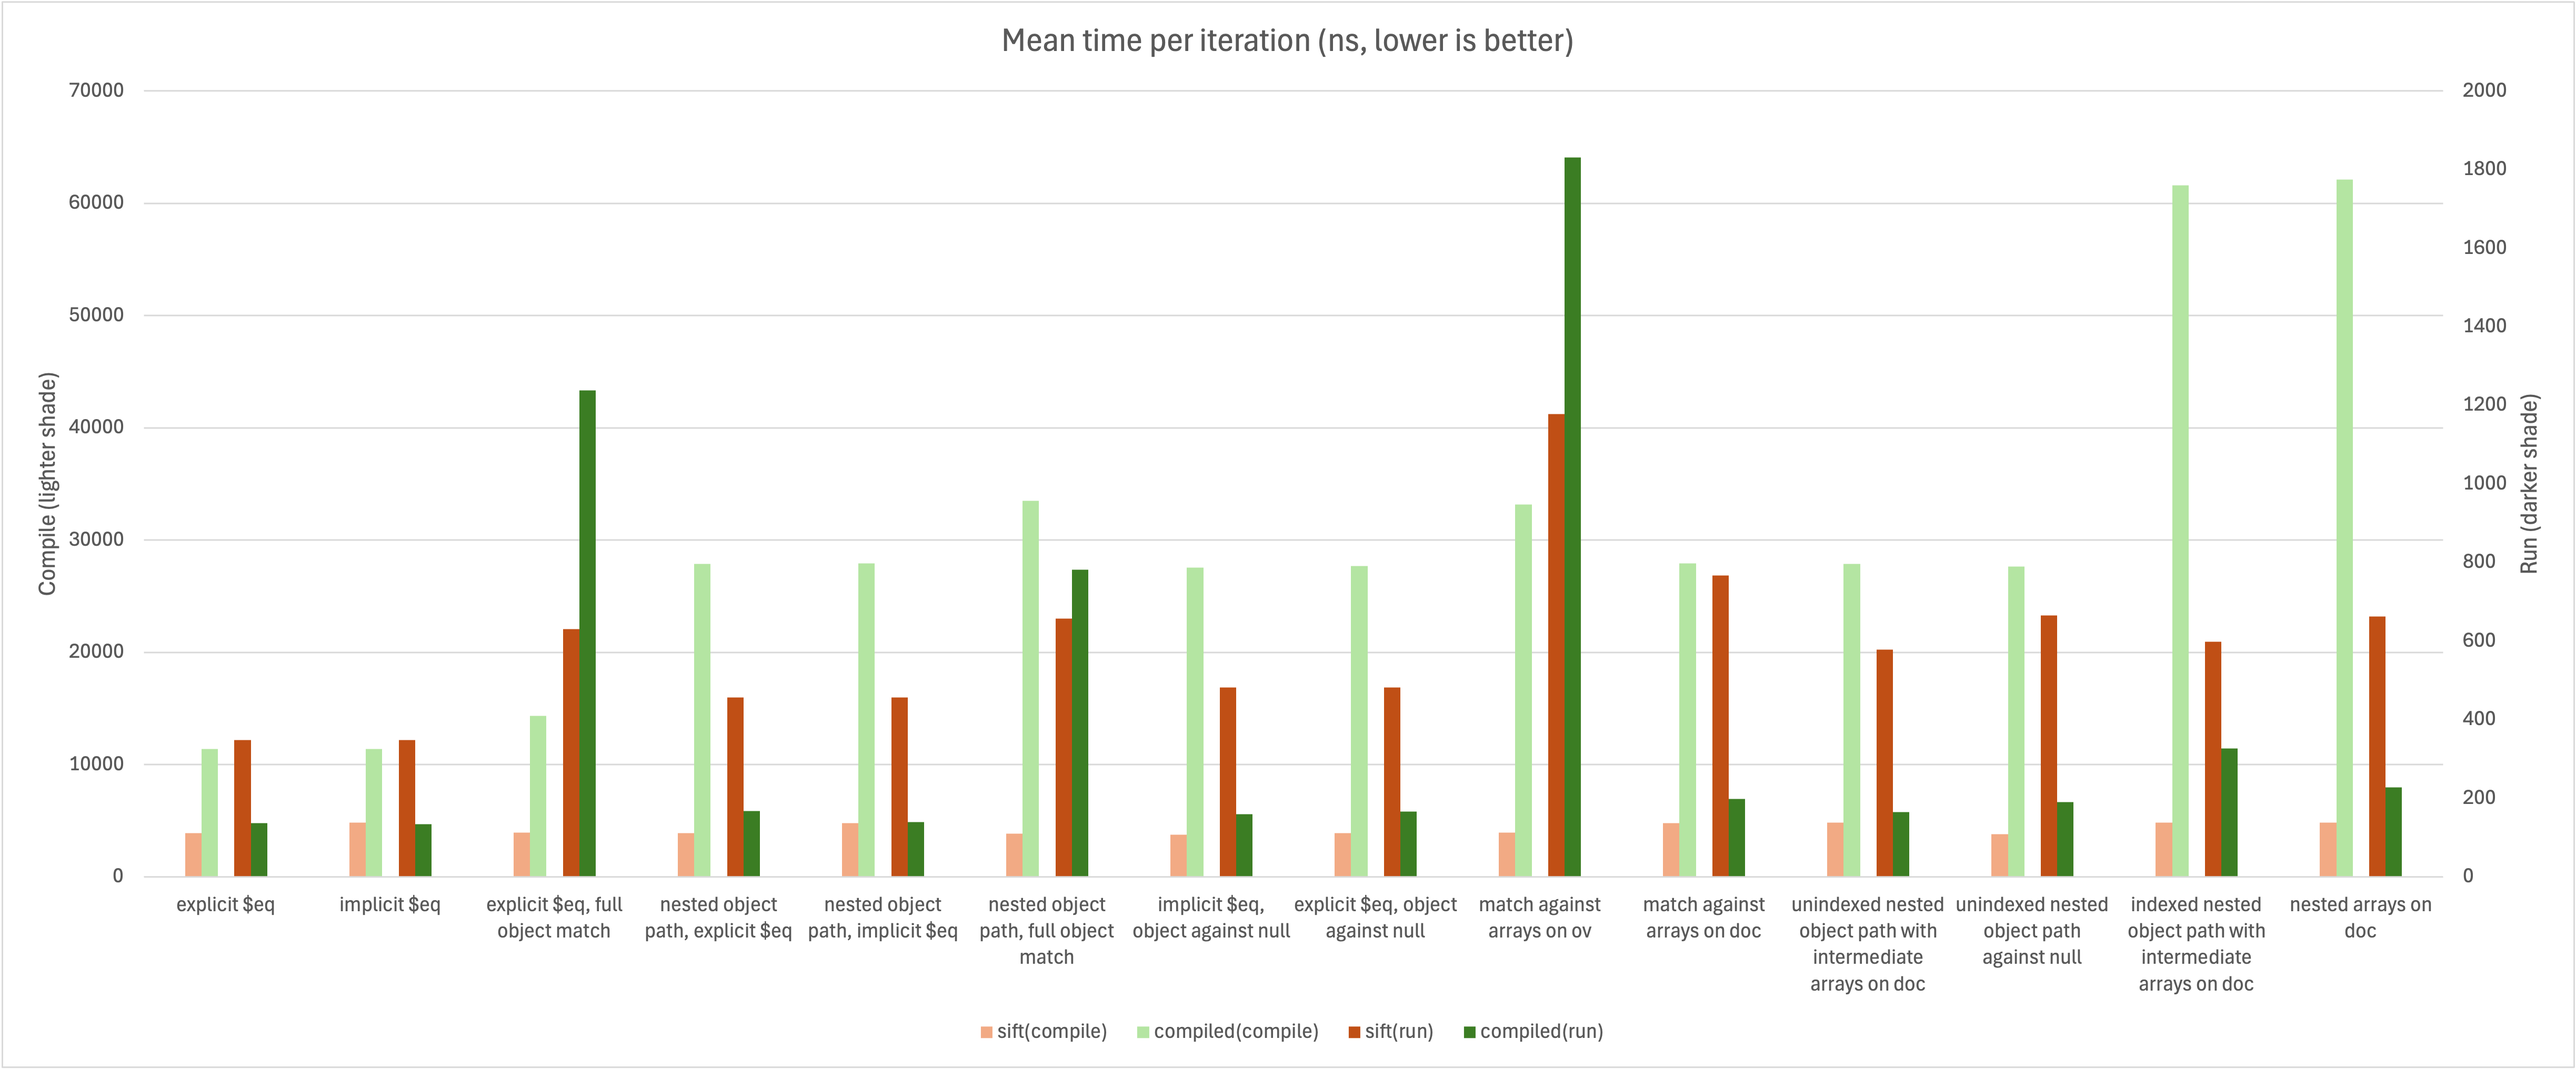
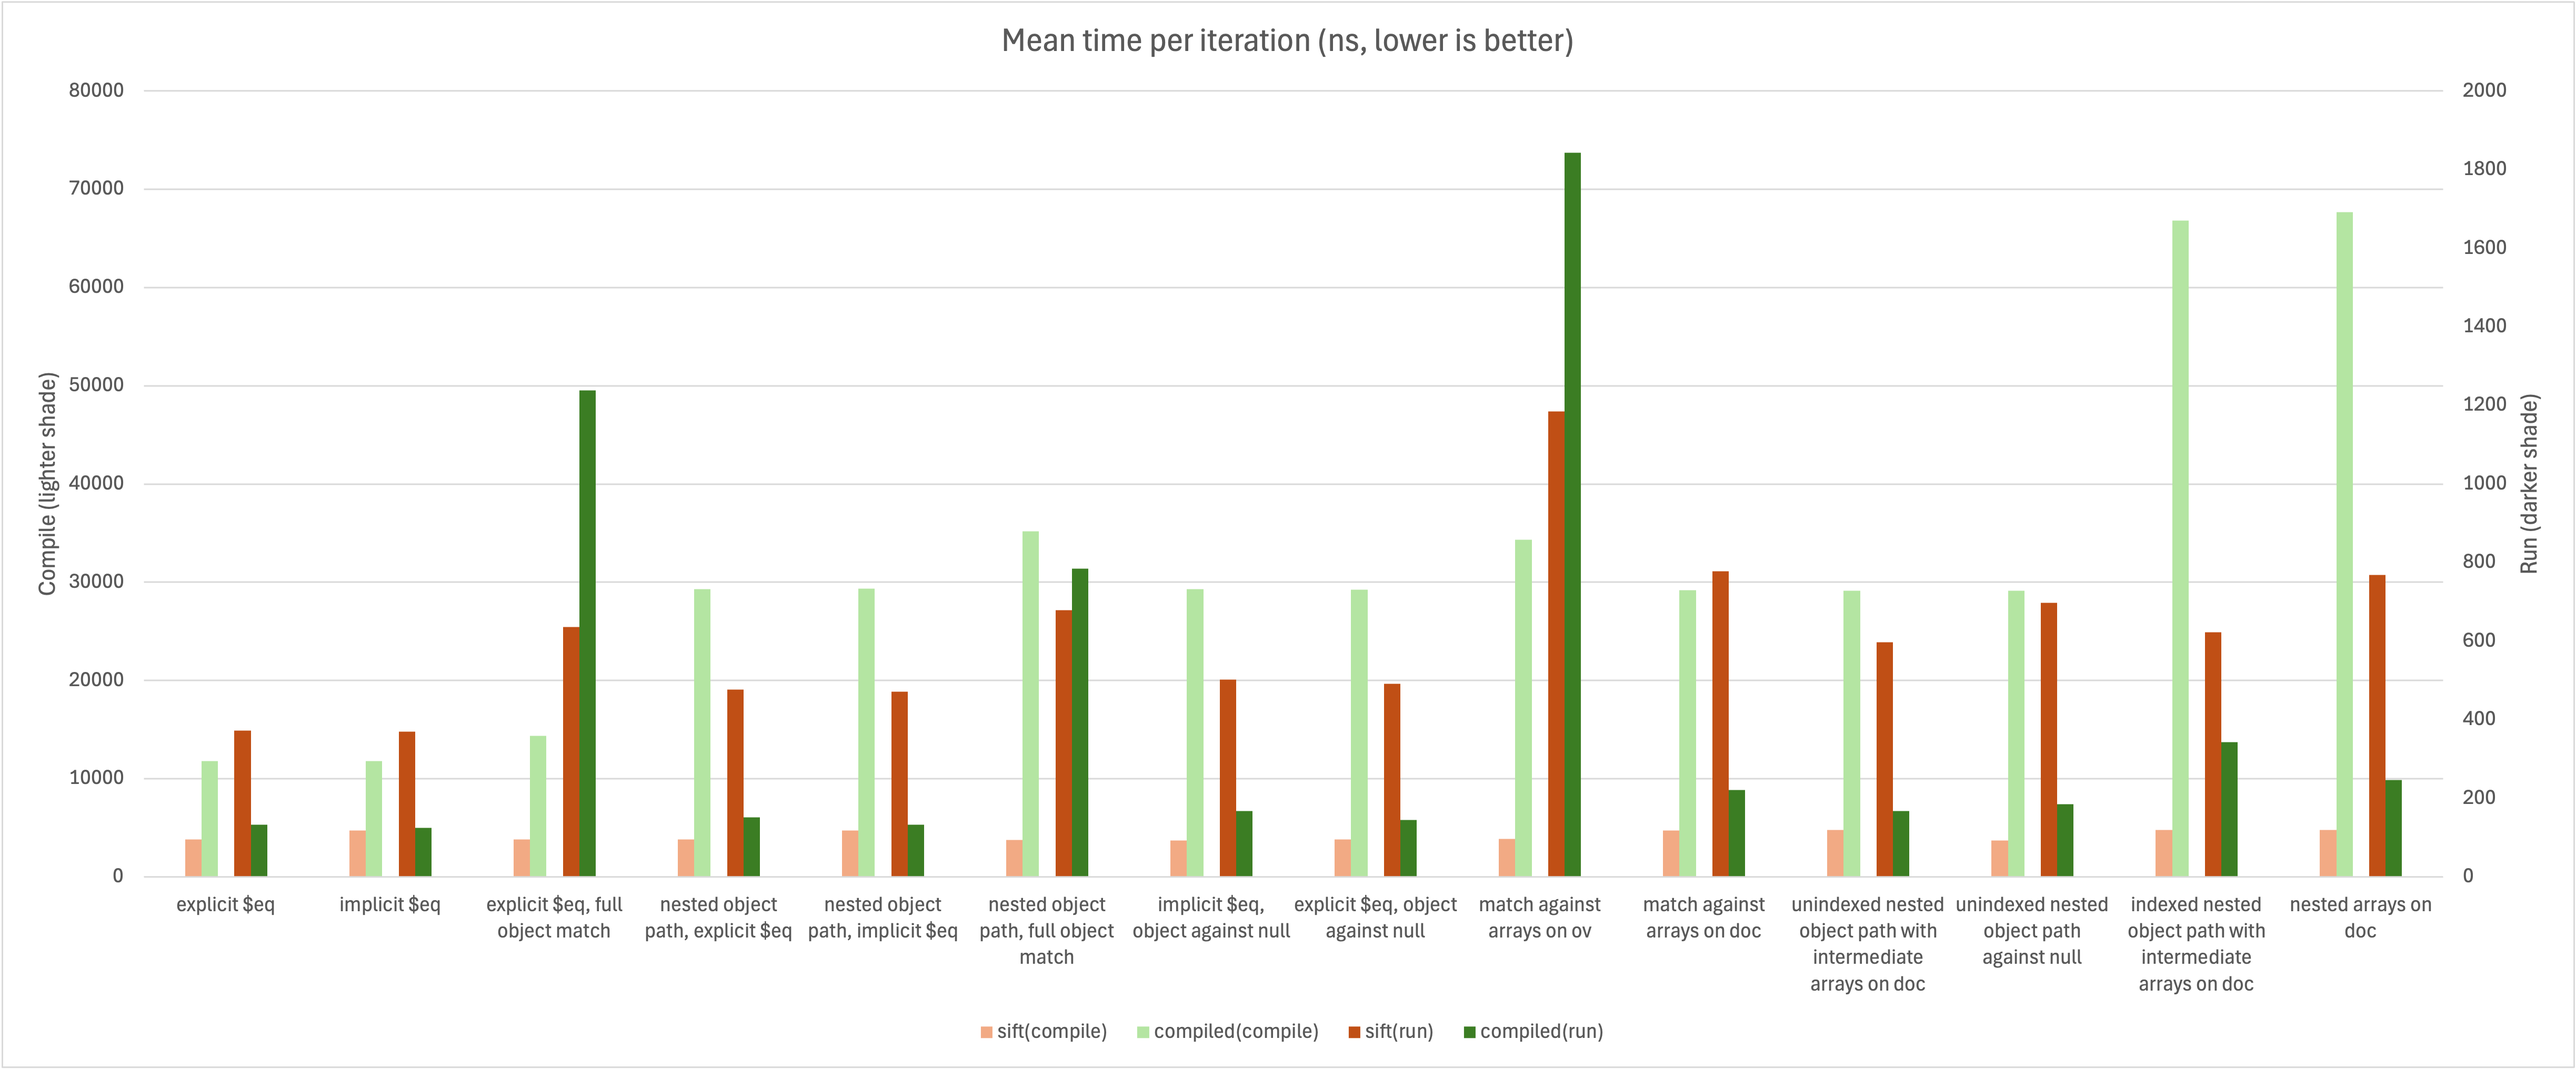
feat: genEq returns string only
worse perf, my guess is wasm allocator / mem management

diff --git a/assembly/index.ts b/assembly/index.ts
@@ -4,24 +4,10 @@ export function add(a: i32, b: i32): i32 {
 	return a + b;
 }
 
-class GenEqReturnType {
-	str!: string;
-	sc!: i32;
-	results!: string[];
-}
-
-export function genEq(
-	sc: i32,
-	results: string[],
-	/** OpValue serialized */
-	ovs: string,
-	pathParts: string[],
-): GenEqReturnType {
+export function genEq(ns: string, ovs: string, pathParts: string[]): string {
 	let str = "";
 
-	sc++;
-	const eqSym = `s_${sc}`;
-	results.push(eqSym);
+	let sc = 0;
 
 	// "and" | "or" | "nor"
 	const mode = ovs === "null" || ovs === "undefined" ? "nor" : "or";
@@ -35,42 +21,47 @@ export function genEq(
 		const lastParts = [docSym].concat(lastPart);
 		const safePath = getSafePath(lastParts);
 		sc++;
-		const arrSym = `s_${sc}`;
+		const arrSym = `${ns}_${sc}`;
 		eqResults.push(arrSym);
 
-		str += `const ${arrSym} = (Array.isArray(${safeFirstPart})) && ${safeFirstPart}.some((${docSym}) => {`;
+		str += `const ${arrSym} = (Array.isArray(${safeFirstPart})) && ${safeFirstPart}.some((${docSym}) => { `;
 
-		const subArrResults: string[] = [];
-		sc++;
-		const subArrSym = `s_${sc}`;
-		subArrResults.push(subArrSym);
+		{
+			const subArrResults: string[] = [];
 
-		str += `const ${subArrSym} = `;
-		str += genCompareOv(safePath, ovs);
-		const res = genEq(sc, subArrResults, ovs, lastParts);
-		sc = res.sc;
-		str += res.str;
+			sc++;
+			const subArrSym = `${ns}_${sc}`;
+			subArrResults.push(subArrSym);
 
-		sc++;
-		const subArrResultSym = `s_${sc}`;
-		str += `let ${subArrResultSym} = ${subArrResults.join(" || ")}; `;
-		str += `return ${subArrResultSym}; }); `;
+			str += `const ${subArrSym} = ` + genCompareOv(safePath, ovs);
+
+			sc++;
+			const subNs = `${ns}_${sc}`;
+			str += genEq(subNs, ovs, lastParts);
+			subArrResults.push(subNs);
+
+			sc++;
+			const subArrResultSym = `${ns}_${sc}`;
+			str += `let ${subArrResultSym} = ${subArrResults.join(" || ")}; `;
+			str += `return ${subArrResultSym}; `;
+		}
+
+		str += `}); `;
 	}
 
 	const safePath = getSafePath(pathParts);
 	sc++;
-	const pathSym = `s_${sc}`;
+	const pathSym = `${ns}_${sc}`;
 	eqResults.push(pathSym);
 
-	str += `const ${pathSym} = `;
-	str += genCompareOv(safePath, ovs);
-	str += `let ${eqSym} = ${eqResults.join(" || ")}; `;
+	str += `const ${pathSym} = ` + genCompareOv(safePath, ovs);
+	str += `let ${ns} = ${eqResults.join(" || ")}; `;
 
 	if (mode === "nor") {
-		str += `${eqSym} = !${eqSym}; `;
+		str += `${ns} = !${ns}; `;
 	}
 
-	return { str, sc, results };
+	return str;
 }
 
 function genCompareOv(safePath: string, ovs: string): string {

diff --git a/src/compiler.ts b/src/compiler.ts
@@ -1,4 +1,6 @@
 import { Filter, Query, cmpOps } from "./types.js";
+
+// import { genEq } from "../assembly/index.js"; // uncomment for easier debugging
 import { genEq } from "../build/release.js";
 
 /**
@@ -38,10 +40,9 @@ interface CompilerOptions {
  * Compiles a mongo filter query into a filter function
  */
 export function compile(query: Query, options: CompilerOptions = {}): Filter {
-	let str = '"use strict"; ';
+	let str = '"use strict"; let results = true; ';
 
 	let sc = 0;
-	let results: string[] = [];
 
 	for (const path in query) {
 		const expOrOv = query[path];
@@ -57,31 +58,21 @@ export function compile(query: Query, options: CompilerOptions = {}): Filter {
 		if (isAllOps) {
 			if ("$eq" in expOrOv) {
 				const ovs = JSON.stringify(expOrOv["$eq"]);
-				const res = genEq(sc, results, ovs, pathParts);
-
-				sc = res.sc;
-				str += res.str;
-				results = res.results;
+				sc++;
+				const ns = `s_${sc}`;
+				str += genEq(ns, ovs, pathParts);
+				str += `results = results && ${ns}; `;
 			}
 		} else {
 			const ovs = JSON.stringify(expOrOv);
-			const res = genEq(sc, results, ovs, pathParts);
-			sc = res.sc;
-			str += res.str;
-			results = res.results;
+			sc++;
+			const ns = `s_${sc}`;
+			str += genEq(ns, ovs, pathParts);
+			str += `results = results && ${ns}; `;
 		}
 	}
 
-	sc++;
-	const retSym = `s_${sc}`;
-
-	if (results.length > 0) {
-		str += `const ${retSym} = ${results.join(" && ")}; `;
-	} else {
-		str += `const ${retSym} = true; `;
-	}
-
-	str += `return ${retSym}`;
+	str += `return results; `;
 
 	if (options.debug) {
 		console.log(str);
